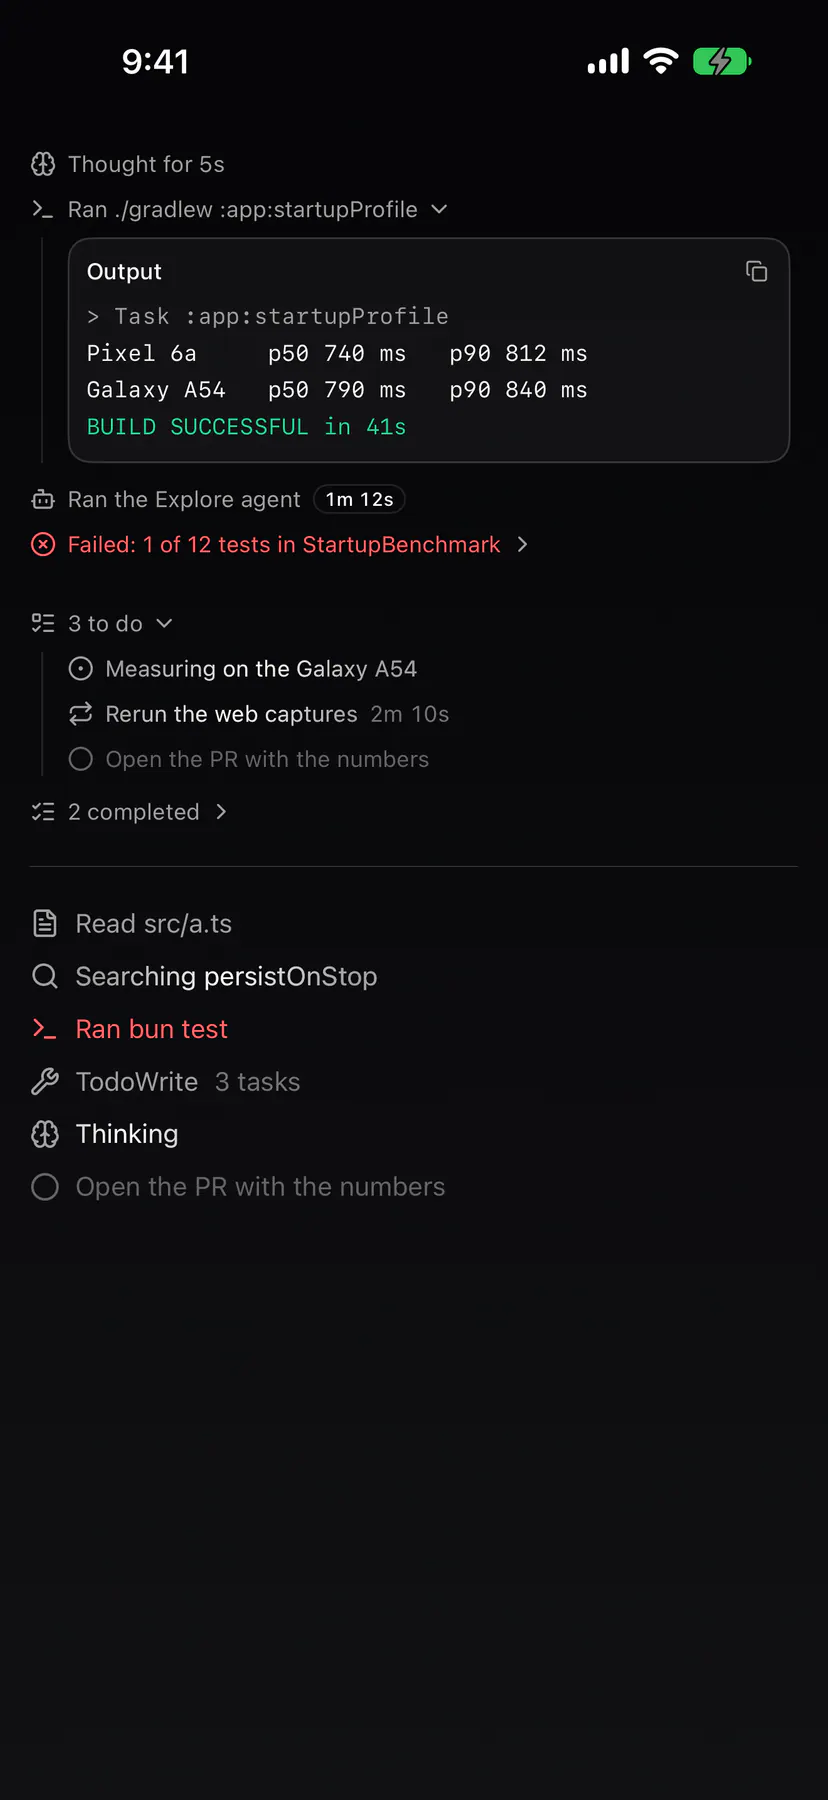
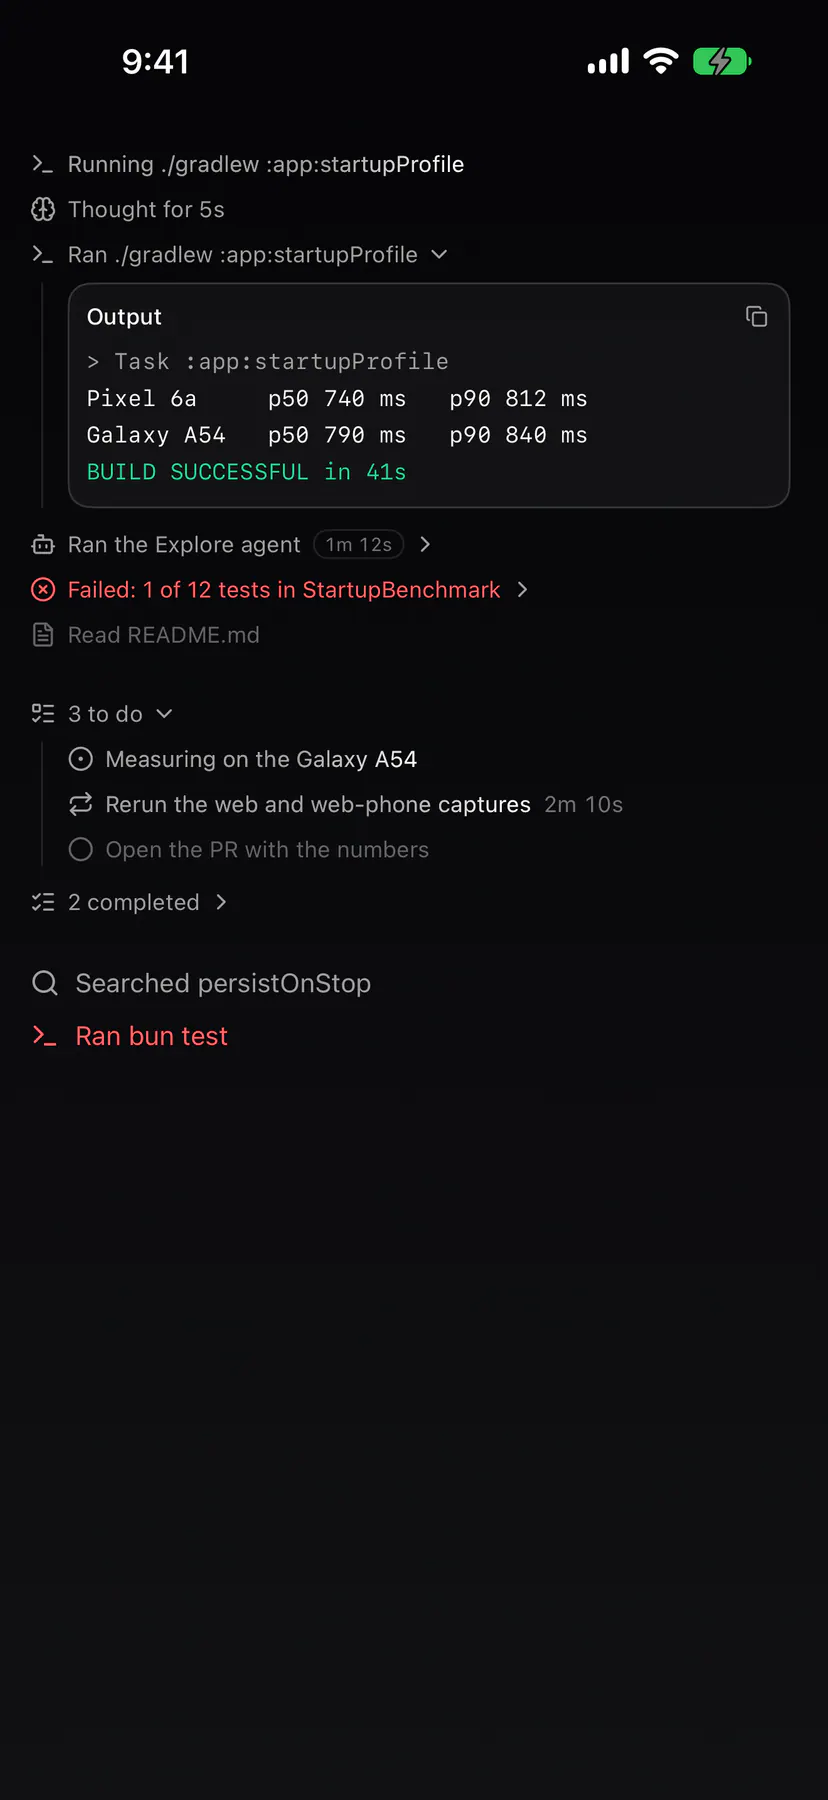
EXP-1324 iOS: a settled test run with failures IS its failed-tests line (replaces the Ran line, as on web/desktop/Android); trace + code-block shots

diff --git a/apps/ios/Exponential/UI/Session/AgentSessionView.swift b/apps/ios/Exponential/UI/Session/AgentSessionView.swift
@@ -2788,7 +2788,7 @@ struct QuestionCard: View {
 /// whose content is the Output CodeBlock (`ansi` for a command, destructive
 /// when the call failed); the RUNNING call is its line alone (EXP-1206: the
 /// transcript never jumps while a command prints). A settled command whose
-/// output parses as a test run with a failure adds the failed-tests line.
+/// output parses as a test run with a failure IS the failed-tests line.
 private struct ToolRow: View {
     let name: String
     let detail: String?
@@ -2848,7 +2848,16 @@ private struct ToolRow: View {
     @ViewBuilder
     private var genericRow: some View {
         TraceStack(size: .sm) {
-            if let shownOutput {
+            // A settled test run with failures IS its failed-tests line
+            // (trace.json), opening onto the same output — it replaces the
+            // call's own "Ran …" line, as on web, desktop and Android.
+            if let failedTests, let shownOutput {
+                TraceCollapsible(size: .sm, accessibilityId: "agent-tool-row") {
+                    TraceLine(failedTests, size: .sm)
+                } content: {
+                    CodeBlockView(shownOutput, language: .ansi, destructive: true)
+                }
+            } else if let shownOutput {
                 TraceCollapsible(size: .sm, accessibilityId: "agent-tool-row") {
                     TraceLine(line, size: .sm)
                 } content: {
@@ -2861,13 +2870,6 @@ private struct ToolRow: View {
             } else {
                 TraceLine(line, size: .sm)
                     .frame(maxWidth: .infinity, alignment: .leading)
-            }
-            if let failedTests, let shownOutput {
-                TraceCollapsible(size: .sm) {
-                    TraceLine(failedTests, size: .sm)
-                } content: {
-                    CodeBlockView(shownOutput, language: .ansi, destructive: true)
-                }
             }
         }
     }
